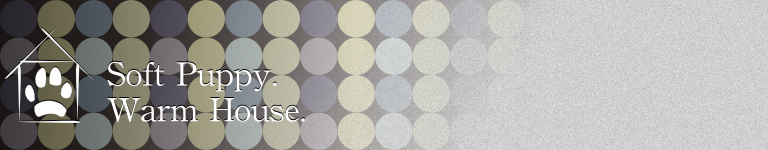
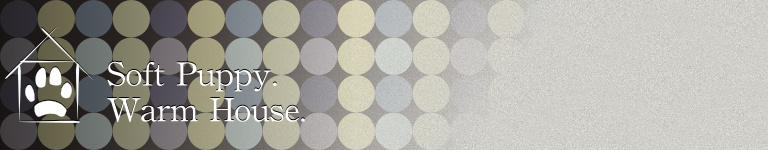
Added seach layout and colors.
Added the new search box layout.
Added the main color variables.
Updated the headers.

Changed region(s): [[0.9062, 0.9867, 0.9375, 1.0]]

diff --git a/testing/css/style.css b/testing/css/style.css
@@ -6,6 +6,7 @@ Author: Jeff Hentschel
 Author URI: http://www.softpuppywarmhouse.com/
 Version: 3.0.0a
 */
+/* Paint Colors */
 /* line 2, ../sass/neat/grid/_grid.scss */
 * {
   -webkit-box-sizing: border-box;
@@ -290,4 +291,75 @@ footer#contentinfo:last-child {
   footer#contentinfo:last-child {
     margin-right: 0;
   }
+}
+
+/* line 6, ../sass/_search.scss */
+div#small-search {
+  padding: 1em 1em 1em 1em;
+}
+/* line 9, ../sass/_search.scss */
+div#small-search form.search input.search-text {
+  width: 80%;
+}
+
+/* line 14, ../sass/_search.scss */
+div#main-search {
+  padding: 1.20482% 1em 1em 1.20482%;
+}
+/* line 17, ../sass/_search.scss */
+div#main-search form.search input.search-text {
+  width: 60%;
+}
+
+/* line 24, ../sass/_search.scss */
+div.search-container form.search {
+  background-color: white;
+  border: 1px solid black;
+  border-radius: 0.35em;
+  height: 1.5em;
+  box-shadow: inset 0 0 0.25em #BBB;
+  overflow: hidden;
+}
+/* line 32, ../sass/_search.scss */
+div.search-container form.search input.search-text {
+  float: left;
+  height: 100%;
+  padding: 0 1em;
+  margin: 0;
+  border: 0;
+  background: transparent;
+  color: #57474f;
+  outline: none;
+}
+/* line 43, ../sass/_search.scss */
+div.search-container form.search button.search-button {
+  float: right;
+  height: 100%;
+  width: 5.5em;
+  margin: 0;
+  padding: 0 1em;
+  border: 0;
+  border-left: 1px solid black;
+  border-top-right-radius: 0.35em;
+  border-bottom-right-radius: 0.35em;
+  background-color: #c9cd9c;
+  background-image: -webkit-gradient(linear, left top, left bottom, color-stop(0%, #c9cd9c), color-stop(100%, #a4ab58));
+  background-image: -webkit-linear-gradient(#c9cd9c, #a4ab58);
+  background-image: linear-gradient(#c9cd9c, #a4ab58);
+  box-shadow: -4px 0px 3px -2px #ddd;
+  cursor: pointer;
+}
+/* line 56, ../sass/_search.scss */
+div.search-container form.search button.search-button:hover {
+  background-color: #d2d6ad;
+  background-image: -webkit-gradient(linear, left top, left bottom, color-stop(0%, #d2d6ad), color-stop(100%, #adb369));
+  background-image: -webkit-linear-gradient(#d2d6ad, #adb369);
+  background-image: linear-gradient(#d2d6ad, #adb369);
+}
+/* line 61, ../sass/_search.scss */
+div.search-container form.search button.search-button:active {
+  background-color: #a4ab58;
+  background-image: -webkit-gradient(linear, left top, left bottom, color-stop(0%, #a4ab58), color-stop(100%, #c9cd9c));
+  background-image: -webkit-linear-gradient(#a4ab58, #c9cd9c);
+  background-image: linear-gradient(#a4ab58, #c9cd9c);
 }

diff --git a/testing/sass/_search.scss b/testing/sass/_search.scss
@@ -1,0 +1,68 @@
+// Search Form
+
+$search-box-height: 1.5em;
+$search-border-radius: 0.35em;
+
+div#small-search {
+	@include pad(1em 1em 1em 1em);
+	
+	form.search input.search-text {
+		width: 80%;
+	}
+}
+
+div#main-search {
+	@include pad(default 1em 1em default);
+	
+	form.search input.search-text {
+		width: 60%;
+	}
+}
+
+div.search-container {
+		
+	form.search {		
+		background-color: white;
+		border: 1px solid black;
+		border-radius: $search-border-radius;
+		height: $search-box-height;
+		box-shadow: inset 0 0 0.25em #BBB;
+		overflow: hidden;
+
+    	input.search-text {
+    		float: left;
+			height: 100%;
+			padding: 0 1em;
+			margin: 0;
+			border: 0;
+			background: transparent;
+			color: $chambourd;
+			outline: none;
+		}
+	
+		button.search-button {
+			float: right;
+			height: 100%;
+			width: 5.5em;
+			margin: 0;
+			padding: 0 1em;
+			border: 0;
+			border-left: 1px solid black;
+			@include border-right-radius($search-border-radius);
+			@include linear-gradient($shagreen, darken($shagreen, 20%));
+			box-shadow: -4px 0px 3px -2px #ddd;
+			cursor: pointer;
+			
+			&:hover {
+				$light-shagreen: lighten($shagreen, 5%);
+				@include linear-gradient($light-shagreen, darken($light-shagreen, 20%));	
+			}
+			
+			&:active {
+				@include linear-gradient(darken($shagreen, 20%), $shagreen);
+			}
+
+		}
+	}
+}
+

diff --git a/testing/main.html b/testing/main.html
@@ -5,13 +5,17 @@
 	<link href="css/style.css" rel="stylesheet" type="text/css" />
 </head>
 
+
 <body>
 <div id="page">
 	<header id="banner" role="banner"></header>
 	
 	<main role="main">
-		<div class="search" id="small-search">
-			Search me when I'm small.
+		<div class="search-container" id="small-search">
+			<form class="search">
+				<input type="text" class="search-text" placeholder="Search" />
+				<button type="submit" class="search-button">Search</button>
+			</form>
 		</div>
 	
 		<nav id="navigation" role="navigation">
@@ -250,9 +254,12 @@
 	</main>
 	
 	<aside id="complementary" role="complementary">
-		<section class="search">
-			Search me when I'm big.
-		</section>
+		<div class="search-container" id="main-search">
+			<form class="search">
+				<input type="text" class="search-text" placeholder="Search" />
+				<button type="submit" class="search-button">Search</button>
+			</form>
+		</div>
 	
 		<section id="social-buttons">
 			F T I P Y R

diff --git a/testing/sass/_colors.scss b/testing/sass/_colors.scss
@@ -1,0 +1,15 @@
+/* Paint Colors */
+$big-chill: #D0CFCA;
+$chambourd: #57474F;
+$expressive-plum: #6C5C64;
+$shagreen: #C9CD9C;
+$raindrop: #9FC5C8;
+$grand-canal: #417880;
+$flattering-peach: #F4D6B3;
+$oyster-bay: #ACB3A8;
+$china-doll: #DCCEBE;
+$ancient-marble: #D0CFBB;
+$ski-slope: #E2E5E4;
+$snowbound: #EEEBE5;
+
+$otto-brown: rgb(85, 72, 68);

diff --git a/testing/sass/style.scss b/testing/sass/style.scss
@@ -7,4 +7,6 @@ Author URI: http://www.softpuppywarmhouse.com/
 Version: 3.0.0a
 */
 
+@import "colors";
 @import "layout";
+@import "search";
